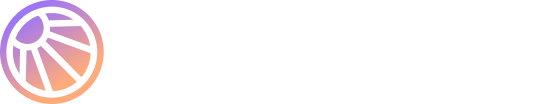
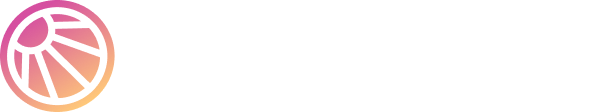
rebrand v2

Changed region(s): [[0.0, 0.0, 0.1788, 0.8077], [0.1192, 0.7788, 0.1788, 0.9808], [0.149, 0.7212, 0.1788, 0.75]]

diff --git a/src/pages/_app.tsx b/src/pages/_app.tsx
@@ -104,9 +104,9 @@ function MyApp({
           name="viewport"
           content="width=device-width,initial-scale=1,minimum-scale=1,maximum-scale=1,user-scalable=no"
         />
-        <title key="title">Solarbeam</title>
+        <title key="title">Solarbeam | The AMM on Moonriver</title>
 
-        <meta key="description" name="description" content="Solarbeam - AMM on Moonriver." />
+        <meta key="description" name="description" content="Solarbeam - The AMM on Moonriver." />
 
         <meta name="application-name" content="Solarbeam App" />
         <meta name="apple-mobile-web-app-capable" content="yes" />
@@ -122,14 +122,14 @@ function MyApp({
         <meta key="twitter:card" name="twitter:card" content="app" />
         <meta key="twitter:title" name="twitter:title" content="Solarbeam App" />
         <meta key="twitter:url" name="twitter:url" content="https://app.solarbeam.io" />
-        <meta key="twitter:description" name="twitter:description" content="Solarbeam - AMM on Moonriver." />
+        <meta key="twitter:description" name="twitter:description" content="Solarbeam - The AMM on Moonriver." />
         <meta key="twitter:image" name="twitter:image" content="https://app.solarbeam.io/icons/icon.png" />
         <meta key="twitter:creator" name="twitter:creator" content="@solarbeam.io" />
         <meta key="og:type" property="og:type" content="website" />
         <meta key="og:site_name" property="og:site_name" content="Solarbeam App" />
         <meta key="og:url" property="og:url" content="https://app.solarbeam.io" />
         <meta key="og:image" property="og:image" content="https://app.solarbeam.io/icon.png" />
-        <meta key="og:description" property="og:description" content="Solarbeam - AMM on Moonriver." />
+        <meta key="og:description" property="og:description" content="Solarbeam - The AMM on Moonriver." />
       </Head>
 
       <I18nProvider i18n={i18n} forceRenderOnLocaleChange={false}>

diff --git a/tailwind.config.js b/tailwind.config.js
@@ -64,7 +64,7 @@ module.exports = {
           'green-yellow': ['#4bf2cd', '#FFD166'],
           'pink-red-light-brown': ['#FE5A75', '#FEC464'],
           yellow: ['#7b6532', '#7b6532'],
-          purple: ['#ab3dfb', '#fba980'],
+          purple: ['#D64FA0', '#FFC979'],
         },
         background: {
           'dark-1000': '#000',
@@ -80,14 +80,14 @@ module.exports = {
         },
       },
       colors: {
-        'light-purple': '#ab3dfb',
-        purple: '#fba980',
-        'dark-purple': '#7d00b4',
+        'light-purple': '#D64FA0',
+        purple: '#FFC979',
+        'dark-purple': '#c84995',
         blue: '#228df4',
         pink: '#f338c3',
         green: '#7cff6b',
         red: '#ff3838',
-        yellow: '#fba980',
+        yellow: '#FFC979',
         lgreen: '#4bf2cd',
         'light-green': '#4bf2cd',
         'mid-green': '#34a088',
@@ -187,7 +187,7 @@ module.exports = {
         },
         '.header-border-b': {
           background:
-            'linear-gradient(to right, rgba(171, 61, 251, 0.5) 0%, rgba(251, 169, 128, 0.5) 100%) left bottom no-repeat',
+            'linear-gradient(147.45deg, #D64FA0 19.48%, #FFC979 86.75%) left bottom no-repeat',
           backgroundSize: '100% 1px',
         },
         '.token-stats-border-b': {

diff --git a/src/pages/exchange/swap/[[...tokens]].tsx b/src/pages/exchange/swap/[[...tokens]].tsx
@@ -378,7 +378,7 @@ export default function Swap() {
         onConfirm={handleConfirmTokenWarning}
       />
       <div className="container px-0 mx-auto sm:pb-10 sm:pt-10 max-w-screen-lg">
-        <DoubleGlowShadow opacity="0.6" maxWidth={false}>
+        <DoubleGlowShadow maxWidth={false}>
           <div id="swap-page" className={`grid grid-cols-1 gap-2 rounded z-4 sm:m-6`}>
             <div className={`grid grid-cols-1 lg:grid-cols-2 space-y-4 lg:space-x-4 lg:space-y-0`}>
               <div

diff --git a/src/components/DoubleGlowShadow/index.tsx b/src/components/DoubleGlowShadow/index.tsx
@@ -1,7 +1,7 @@
 import { classNames } from '../../functions'
 import Image from 'next/image'
 
-const DoubleGlowShadow = ({ maxWidth = true, opacity = '0.6', children }) => {
+const DoubleGlowShadow = ({ maxWidth = true, opacity = '0.35', children }) => {
   return (
     <div className={`force-gpu relative w-full ${maxWidth ? 'max-w-2xl' : ''}`}>
       {/* <div style={{ position: 'absolute', top: 0, right: 0, left: 0, bottom: 0 }}>

diff --git a/src/pages/locker/create/index.tsx b/src/pages/locker/create/index.tsx
@@ -128,7 +128,7 @@ export default function CreateLocker(): JSX.Element {
       </Head>
 
       <div className="container px-0 mx-auto pb-5 pt-5">
-        <DoubleGlowShadow maxWidth={false} opacity={'0.6'}>
+        <DoubleGlowShadow maxWidth={false}>
           <div className={`grid grid-cols-12 gap-2 min-h-1/2`}>
             <div className={`col-span-12 flex flex-col md:flex-row md:space-x-2`}>
               <NavLink

diff --git a/src/pages/locker/index.tsx b/src/pages/locker/index.tsx
@@ -67,7 +67,7 @@ export default function Locker(): JSX.Element {
       </Head>
 
       <div className="container px-0 mx-auto pb-5 pt-5">
-        <DoubleGlowShadow maxWidth={false} opacity={'0.3'}>
+        <DoubleGlowShadow maxWidth={false}>
           <div className={`grid grid-cols-12 gap-2 min-h-1/2`}>
             <div className={`col-span-12 flex flex-col md:flex-row md:space-x-2`}>
               <NavLink

diff --git a/src/pages/vaults/index.tsx b/src/pages/vaults/index.tsx
@@ -136,7 +136,7 @@ export default function Vault(): JSX.Element {
       </Head>
 
       <div className="container px-0 mx-auto sm:pb-16 sm:pt-16">
-        <DoubleGlowShadow maxWidth={false} opacity={'0.4'}>
+        <DoubleGlowShadow maxWidth={false}>
           <div className={`grid grid-cols-12 gap-2 min-h-1/2`}>
             <div className={`col-span-12`}>
               <Card className="bg-dark-900 z-4">

diff --git a/src/pages/farm/index.tsx b/src/pages/farm/index.tsx
@@ -185,7 +185,7 @@ export default function Farm(): JSX.Element {
       </Head>
 
       <div className="container px-0 mx-auto sm:pb-16 sm:pt-16">
-        <DoubleGlowShadow maxWidth={false} opacity={'0.6'}>
+        <DoubleGlowShadow maxWidth={false}>
           <div className={`grid grid-cols-12 gap-2 min-h-1/2`}>
             <div className={`col-span-12`}>
               <Card className="bg-dark-900 z-4">

diff --git a/src/pages/exchange/pool/index.tsx b/src/pages/exchange/pool/index.tsx
@@ -100,7 +100,7 @@ export default function Pool() {
         />
       </Head>
 
-      <DoubleGlowShadow opacity="0.6">
+      <DoubleGlowShadow>
         <Container maxWidth="2xl" className="space-y-6 sm:mt-16 sm:mb-16">
           {/* <Alert
           title={i18n._(t`Liquidity Provider Rewards`)}
